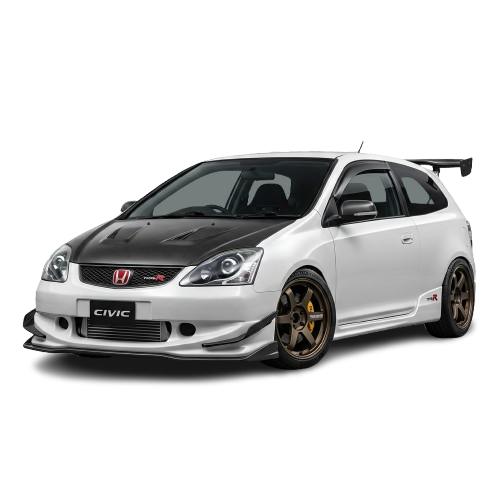
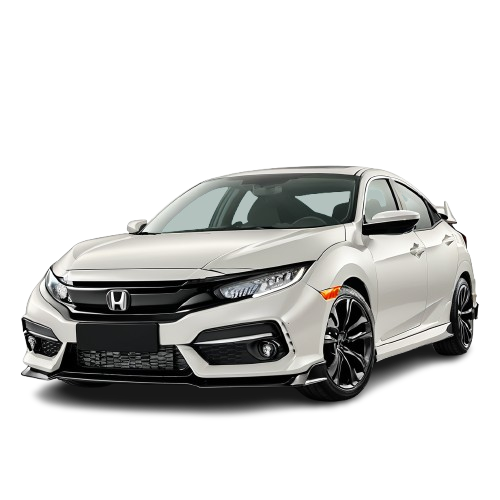
Gamble fix and Images

diff --git a/index.js b/index.js
@@ -138,7 +138,8 @@ const MODAL_ROUTES = {
   'modal_combat':   (i) => combatPanel.handleModal(i),
   'modal_travel':   (i) => travelPanel.handleModal(i),
   'modal_business': (i) => businessPanel.handleModal(i),
-  'modal_gamble':   (i) => gamblingPanel.handleModal(i),
+  'modal_gamble':        (i) => gamblingPanel.handleModal(i),
+  'modal_submit_gamble': (i) => gamblingPanel.handleModal(i),
   'modal_oc':           (i) => ocPanel.handleModal(i),
   'modal_submit_oc':    (i) => ocPanel.handleModal(i),
   'modal_profile':  (i) => profilePanel.handleModal(i),